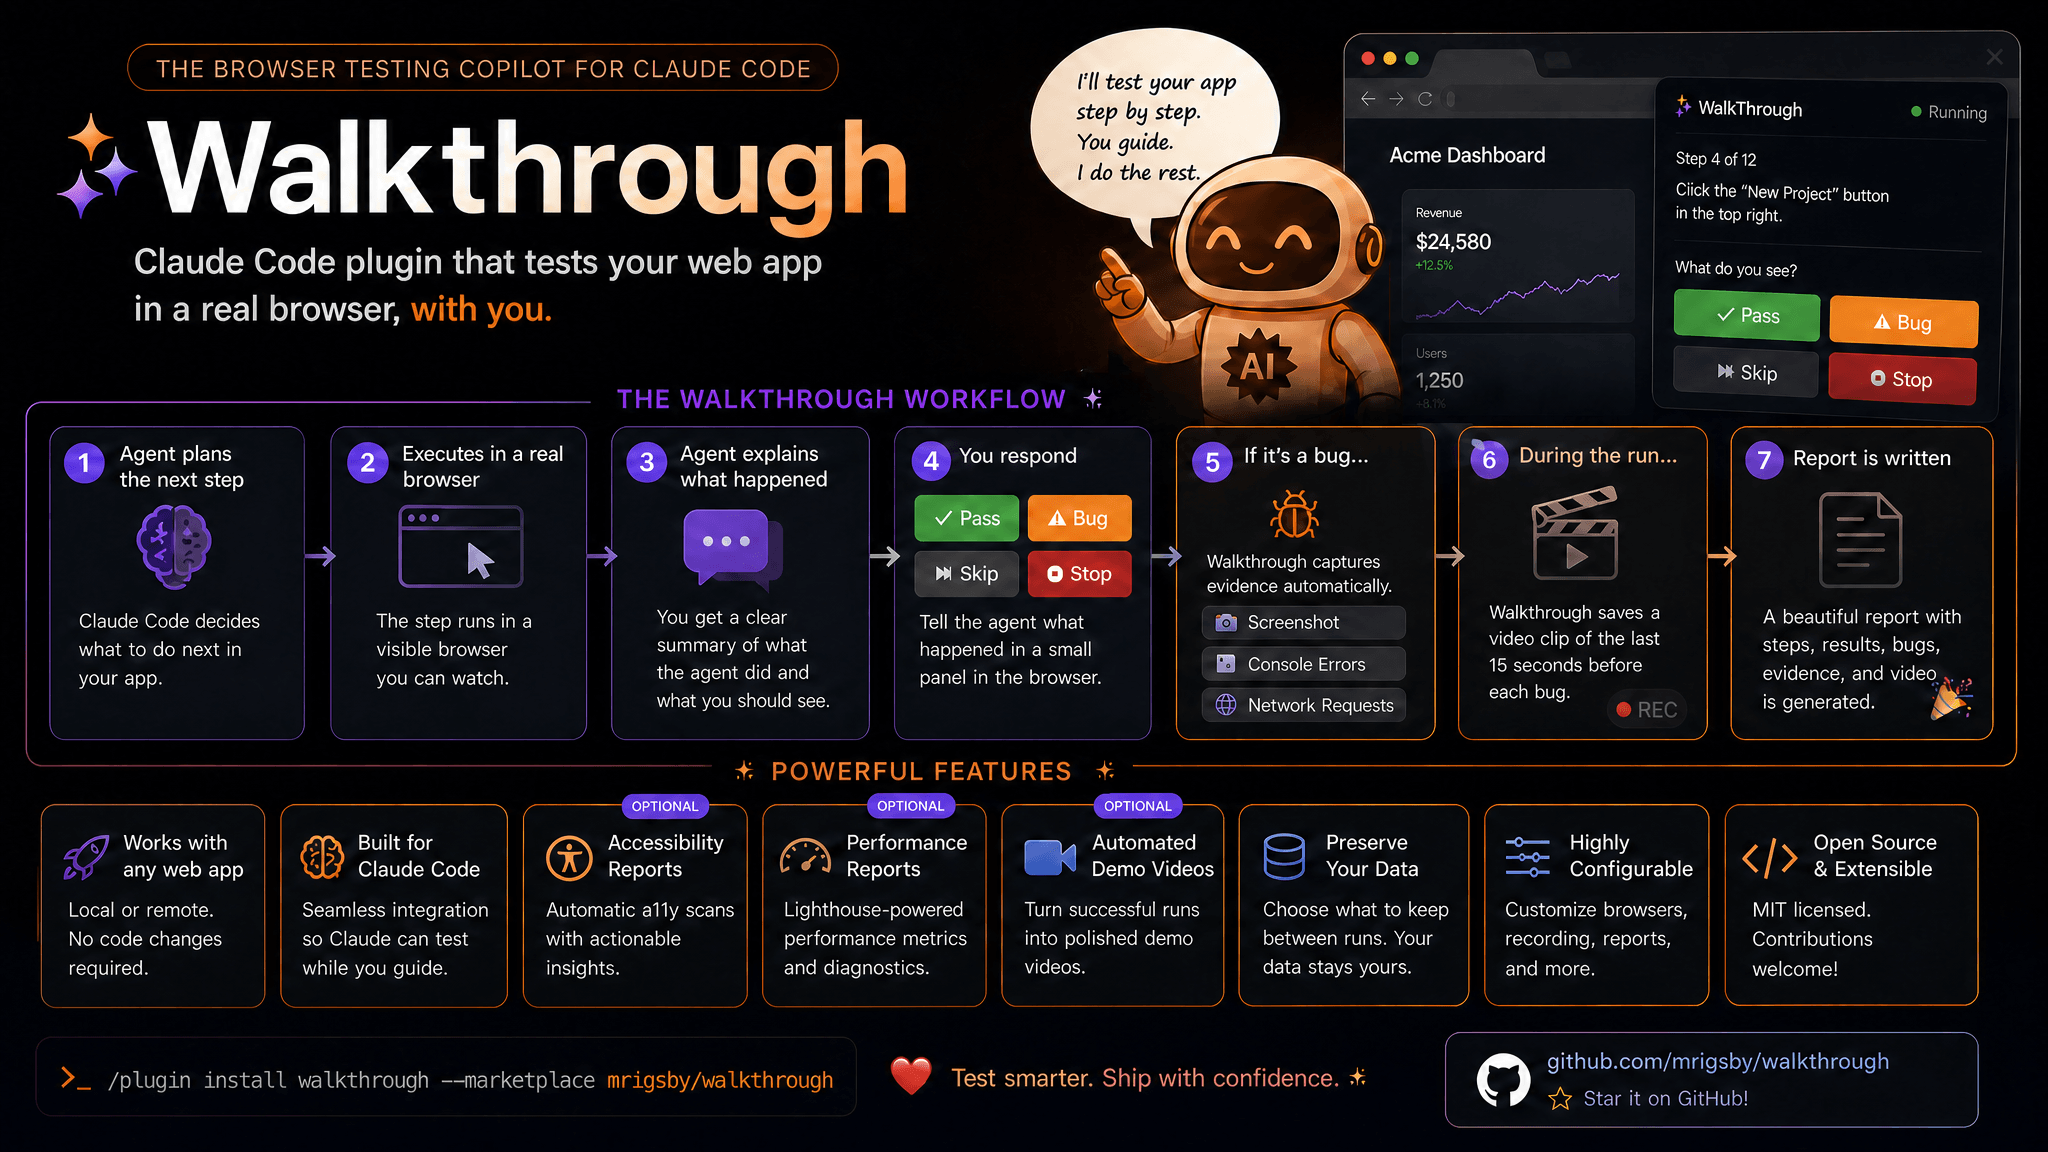
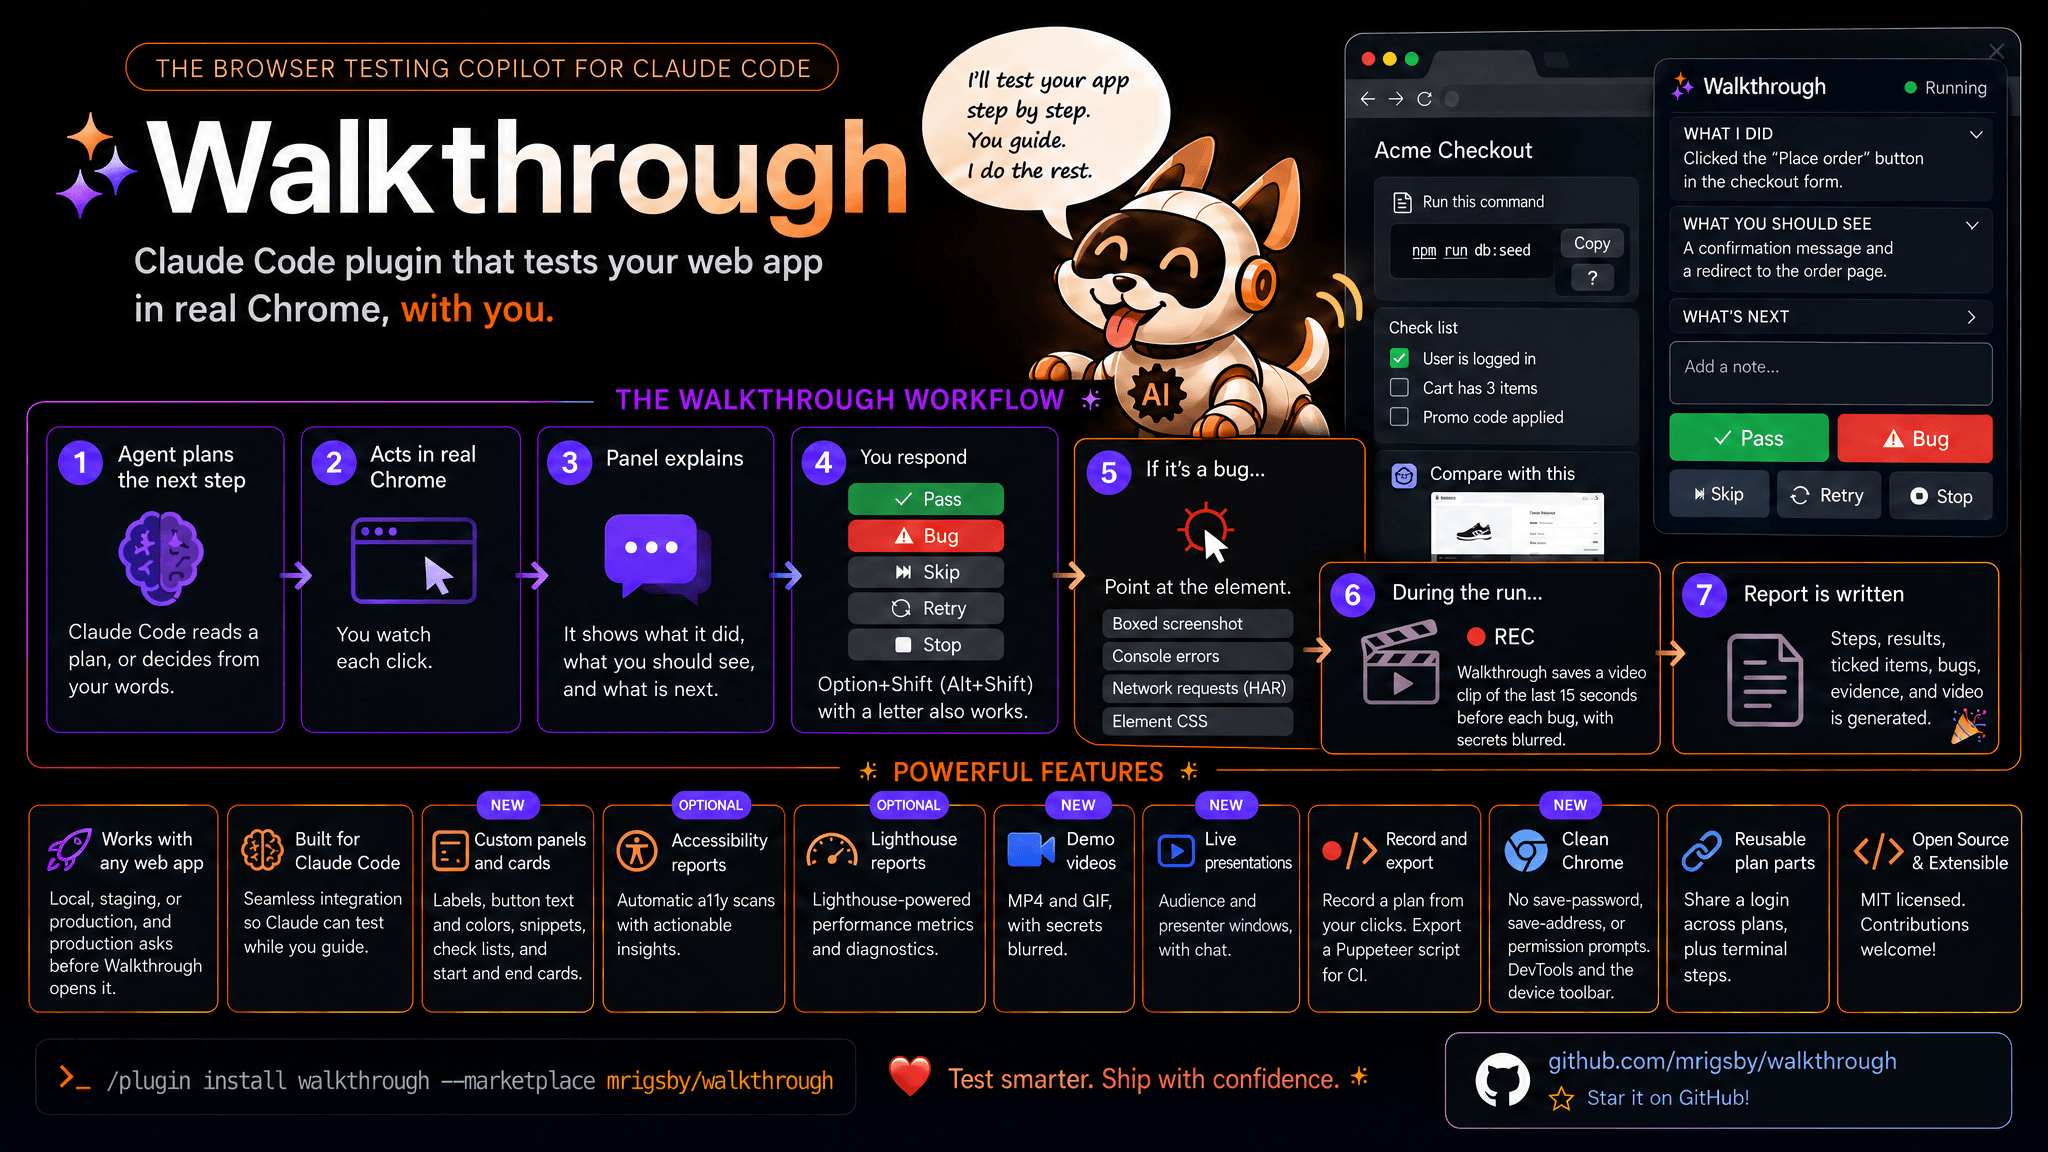
Update the README image for 0.5.0
The new image shows the panel with its sections, the Retry button,
a snippet with Copy, a check list, and a reference image. The
workflow shows pointing at a bug and the video clip with blurred
secrets. The feature cards add custom panels and cards, a clean
Chrome, reusable plan parts, live presentations, and record and
export.

The alt text of the image now names the same steps.

diff --git a/README.md b/README.md
@@ -1,6 +1,6 @@
 # Walkthrough
 
-![How Walkthrough works: the agent plans a step, runs it in a visible browser, and explains it. You answer Pass, Bug, Skip, or Stop in a panel. For a bug, Walkthrough saves a screenshot, console errors, and network requests. At the end, it writes a report.](docs/images/walkthrough-infographic.png)
+![How Walkthrough works: the agent plans a step, runs it in Chrome, and explains it in a panel. You answer Pass, Bug, Skip, Retry, or Stop. For a bug, you point at the element. Walkthrough saves a boxed screenshot, console errors, network requests, and a video clip. At the end, it writes a report.](docs/images/walkthrough-infographic.png)
 
 Walkthrough lets an AI agent test your web app in a real, visible browser, one step at a time, with you. After each step, the agent tells you what it did and what you should see. You answer in a small panel in the browser: **Pass**, **Bug**, **Skip**, **Retry**, or **Stop**. When you report a bug, Walkthrough saves a screenshot, the console errors, and the network requests. During a test run, it also saves a short video. Then it writes a report.
 
